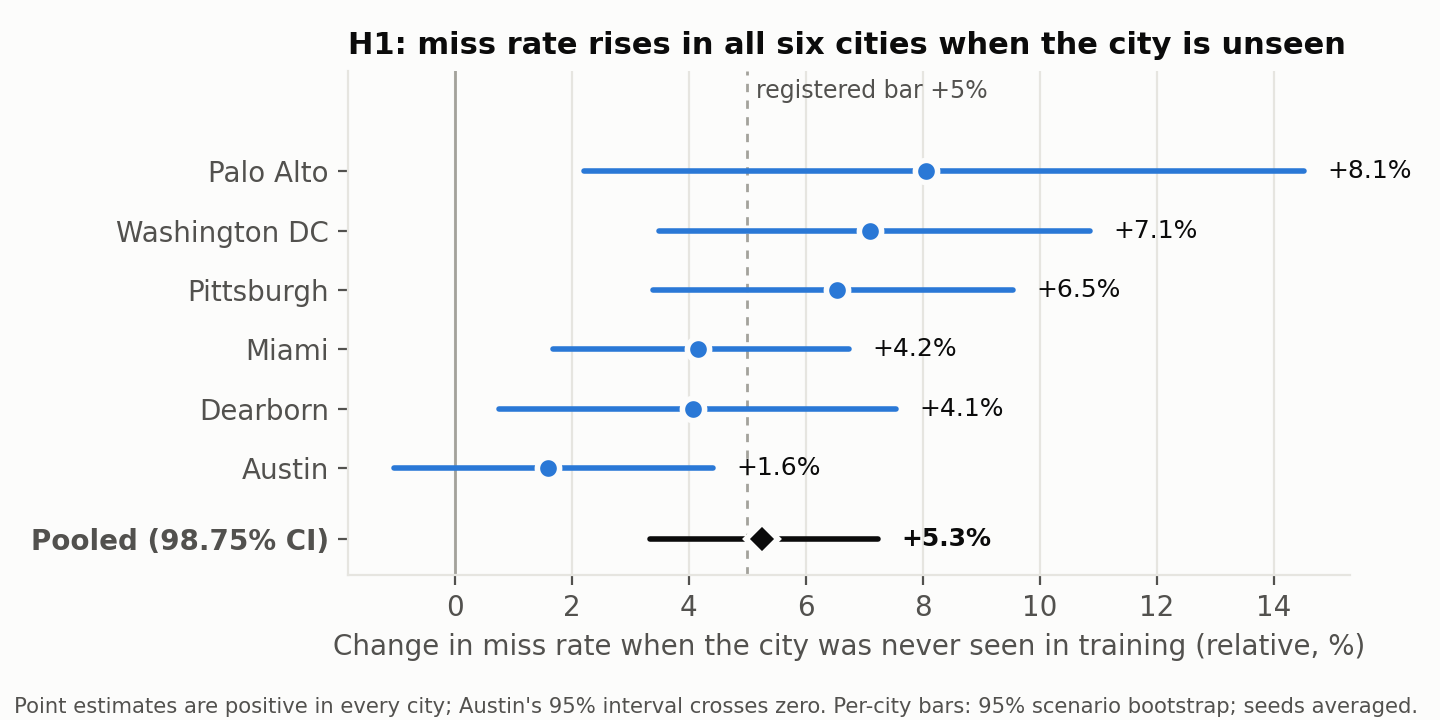
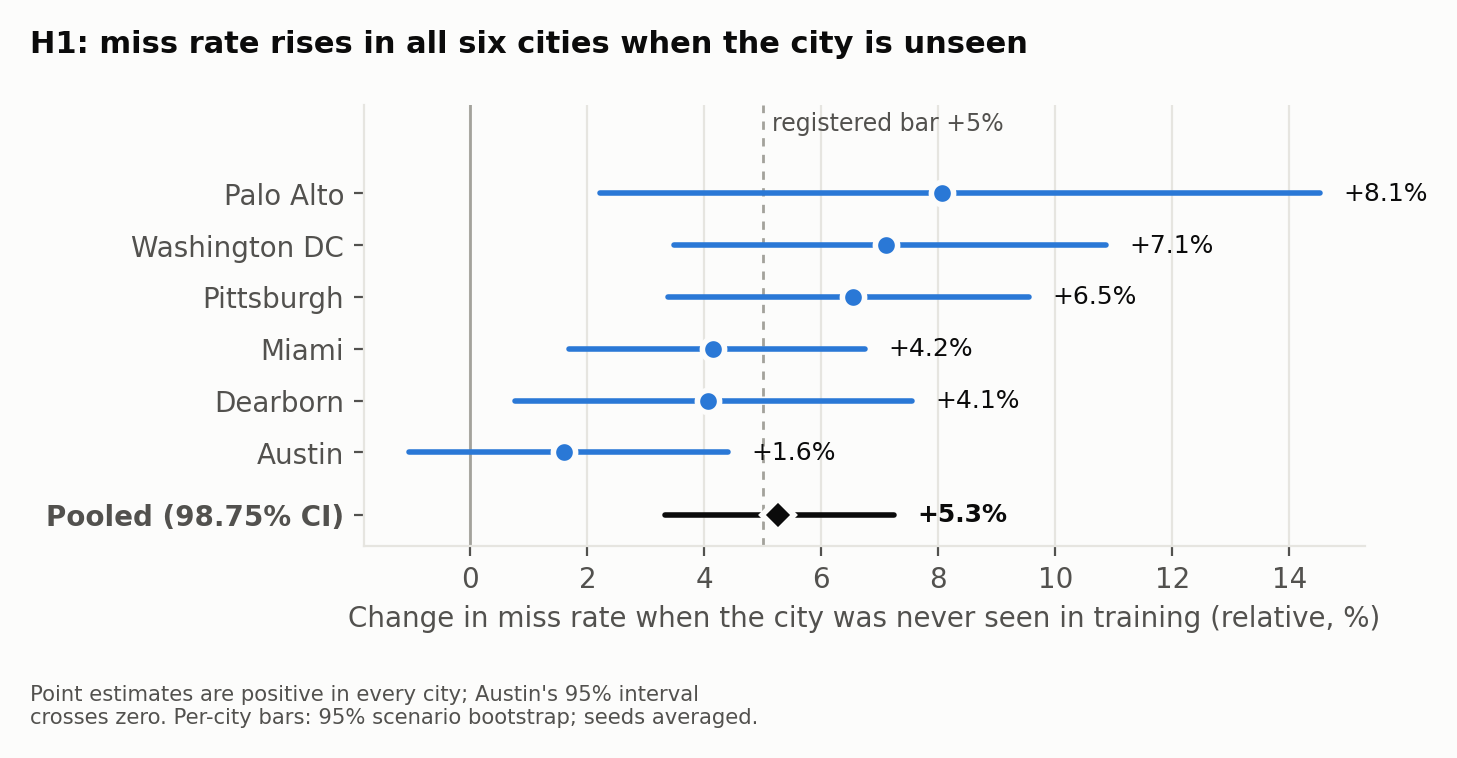
Figures: wrap and left-align titles and footnotes so nothing clips

diff --git a/scripts/plot_results.py b/scripts/plot_results.py
@@ -7,6 +7,7 @@ from __future__ import annotations
 
 import argparse
 import os
+import textwrap
 
 import matplotlib
 
@@ -36,6 +37,40 @@ plt.rcParams.update({
 
 def seed_mean(df: pd.DataFrame, m: str) -> np.ndarray:
     return df[[f"s{i}_{m}" for i in range(3)]].to_numpy(float).mean(1)
+
+
+def _fit(fig, artist, text: str) -> None:
+    """Set text on artist, wrapped so it fits the figure width (measured, not estimated) with balanced line lengths."""
+    renderer = fig.canvas.get_renderer()
+    limit = fig.bbox.width * 0.98 - artist.get_window_extent(renderer).x0
+
+    def fits(width: int) -> bool:
+        artist.set_text(textwrap.fill(text, width, break_on_hyphens=False))
+        return artist.get_window_extent(renderer).width <= limit
+
+    widest = next((w for w in range(len(text), 19, -1) if fits(w)), 20)
+    lines = len(textwrap.wrap(text, widest, break_on_hyphens=False))
+    best = widest  # narrowest width with the same line count, so the last line is not an orphan
+    while best > 20 and len(textwrap.wrap(text, best - 1, break_on_hyphens=False)) == lines:
+        best -= 1
+    fits(best)
+
+
+def _finish(fig, path: str, title: str | None = None, note: str | None = None, dpi: int = 200, note_size: float = 7.6) -> None:
+    """Left-aligned figure title and footnote, both wrapped to the figure width, with room reserved for them.
+
+    Saving with bbox_inches="tight" is a backstop so no title, label, legend or annotation is ever cut at the edge.
+    """
+    bottom = 0.0
+    if note:
+        t = fig.text(0.01, 0.01, "", color=INK2, fontsize=note_size, va="bottom")
+        _fit(fig, t, note)
+        bottom = (t.get_text().count("\n") + 1) * note_size * 1.3 / 72 / fig.get_figheight() + 0.025
+    if title:  # tight_layout reserves room for the suptitle itself
+        _fit(fig, fig.suptitle("", x=0.01, ha="left", fontsize=11, fontweight="bold"), title)
+    fig.tight_layout(rect=(0, bottom, 1, 1))
+    fig.savefig(path, dpi=dpi, bbox_inches="tight", pad_inches=0.15)
+    plt.close(fig)
 
 
 def fig_h1(evals: str, out: str) -> None:
@@ -72,13 +107,11 @@ def fig_h1(evals: str, out: str) -> None:
     ax.get_yticklabels()[-1].set_fontweight("bold")
     ax.set_ylim(-1.8, len(rows) + 0.7)
     ax.set_xlabel("Change in miss rate when the city was never seen in training (relative, %)")
-    ax.set_title("H1: miss rate rises in all six cities when the city is unseen", loc="left")
     ax.grid(axis="x")
     ax.set_axisbelow(True)
-    fig.text(0.01, 0.01, "Point estimates are positive in every city; Austin's 95% interval crosses zero. Per-city bars: 95% scenario bootstrap; seeds averaged.", color=INK2, fontsize=7.6)
-    fig.tight_layout(rect=(0, 0.04, 1, 1))
-    fig.savefig(f"{out}/h1_per_city.png", dpi=200)
-    plt.close(fig)
+    _finish(fig, f"{out}/h1_per_city.png", title="H1: miss rate rises in all six cities when the city is unseen",
+            note="Point estimates are positive in every city; Austin's 95% interval crosses zero. "
+                 "Per-city bars: 95% scenario bootstrap; seeds averaged.")  # fmt: skip
 
 
 def fig_h2(evals: str, out: str) -> None:
@@ -108,13 +141,10 @@ def fig_h2(evals: str, out: str) -> None:
     ax.invert_xaxis()
     ax.set_xlabel("Share of scenarios the predictor keeps (%)")
     ax.set_ylabel("Miss rate of kept scenarios (%)")
-    ax.set_title("H2: disagreement catches a third of what an error-ranked oracle removes", loc="left")
     ax.grid(axis="y")
     ax.set_axisbelow(True)
-    fig.text(0.01, 0.01, "Held-out-city validation scenarios, mean of the six leave-one-city-out folds.", color=INK2, fontsize=8)
-    fig.tight_layout(rect=(0, 0.04, 1, 1))
-    fig.savefig(f"{out}/h2_risk_coverage.png", dpi=200)
-    plt.close(fig)
+    _finish(fig, f"{out}/h2_risk_coverage.png", title="H2: disagreement catches a third of what an error-ranked oracle removes",
+            note="Held-out-city validation scenarios, mean of the six leave-one-city-out folds.", note_size=8)  # fmt: skip
 
 
 def fig_closed_loop(evals: str, out: str) -> None:
@@ -138,17 +168,14 @@ def fig_closed_loop(evals: str, out: str) -> None:
         ax.text(c + h + 0.12, yi, f"{rate(arm, 'failure'):.1f}%", va="center", fontsize=9, fontweight="bold")
     ax.set_yticks(range(len(arms)), [a[1] for a in arms[::-1]])
     ax.set_xlabel("Share of drives with a planning failure (%)")
-    ax.set_title("Closed loop: learned forecasts crash less, phantom-brake more", loc="left")
     ax.bar(0, 0, color=ORANGE, label="At-fault collision")
     ax.bar(0, 0, color=BLUE, label="Unnecessary hard brake, no collision")
     ax.legend(loc="upper right", fontsize=8.5)
     ax.grid(axis="x")
     ax.set_axisbelow(True)
     ax.set_xlim(0, 8.2)
-    fig.text(0.01, 0.01, "24,988 validation drives; human drive replayed: 0.4% (collision-checker calibration).", color=INK2, fontsize=8)
-    fig.tight_layout(rect=(0, 0.04, 1, 1))
-    fig.savefig(f"{out}/closed_loop_failures.png", dpi=200)
-    plt.close(fig)
+    _finish(fig, f"{out}/closed_loop_failures.png", title="Closed loop: learned forecasts crash less, phantom-brake more",
+            note="24,988 validation drives; human drive replayed: 0.4% (collision-checker calibration).", note_size=8)  # fmt: skip
 
 
 def fig_examples(evals: str, runs: str, root: str, out: str, city: str = "palo-alto") -> None:
@@ -166,7 +193,7 @@ def fig_examples(evals: str, runs: str, root: str, out: str, city: str = "palo-a
     for key, path in (("seen", f"{runs}/ALL/seed0/model.pt"), ("unseen", f"{runs}/LOCO-{city}/seed0/model.pt")):
         model, _ = load_model(path, device)
         preds[key] = run_model(model, val, idx, device)
-    fig, axes = plt.subplots(2, 2, figsize=(9.0, 9.2))
+    fig, axes = plt.subplots(2, 2, figsize=(9.0, 8.6))
     for r, vi in enumerate([typical, worst]):
         j = int(np.where(idx == vi)[0][0])
         hist = np.asarray(val.arrays["agent_hist"][vi])
@@ -204,17 +231,14 @@ def fig_examples(evals: str, runs: str, root: str, out: str, city: str = "palo-a
             ax.set_yticks([])
             for sp in ax.spines.values():
                 sp.set_visible(False)
-            ax.set_title(f"{title}: best-of-6 endpoint error {fde:.1f} m", loc="left", fontsize=9.5, color=col)
+            ax.set_title(f"{title}\nbest-of-6 endpoint error {fde:.1f} m", loc="left", fontsize=9.5, color=col)
             if cidx == 0:
                 ax.text(-0.02, 0.5, "Typical scenario" if r == 0 else "Largest gap", transform=ax.transAxes, rotation=90,
                         ha="right", va="center", fontsize=10, fontweight="bold", color=INK)
-    fig.text(0.02, 0.012, "Black: focal vehicle history (solid) and true future (dashed, star). Colour: the 6 predicted futures, thicker = more\n"
-             "probable. Grey: other agents and lanes. Seed-0 models, Palo Alto validation vehicles. Top: the median-error scenario for\n"
-             "the trained-with model. Bottom: selected as the scenario where the unseen-city model does worst relative to the other.",
-             color=INK2, fontsize=7.8)  # fmt: skip
-    fig.tight_layout(rect=(0.02, 0.07, 1, 1))
-    fig.savefig(f"{out}/example_scenarios.png", dpi=170)
-    plt.close(fig)
+    _finish(fig, f"{out}/example_scenarios.png", dpi=170, note_size=7.8,
+            note="Black: focal vehicle history (solid) and true future (dashed, star). Colour: the 6 predicted futures, thicker = more "
+                 "probable. Grey: other agents and lanes. Seed-0 models, Palo Alto validation vehicles. Top: the median-error scenario for "
+                 "the trained-with model. Bottom: selected as the scenario where the unseen-city model does worst relative to the other.")  # fmt: skip
 
 
 def fig_stage3(stage3: str, out: str) -> None:
@@ -238,13 +262,10 @@ def fig_stage3(stage3: str, out: str) -> None:
         ax.set_xlim(0, max(r[key].values()) * 100 * 1.25)
         ax.set_xlabel("Share of validation drives (%)")
     axes[0].set_yticks(range(len(arms)), [a[1] for a in arms[::-1]])
-    fig.suptitle("Stage 3: CV for stopped agents cuts phantom brakes 38%, collisions within the registered margin",
-                 x=0.01, ha="left", fontsize=11, fontweight="bold")
-    fig.text(0.01, 0.01, "Closed loop v2 (no future speed cap, contact-based fault), 24,988 validation drives, model arms averaged "
-             "over 3 seeds. Sham substituted 43% of PATCH's dose (see audit).", color=INK2, fontsize=7.6)
-    fig.tight_layout(rect=(0, 0.05, 1, 0.94))
-    fig.savefig(f"{out}/stage3_closed_loop.png", dpi=200)
-    plt.close(fig)
+    _finish(fig, f"{out}/stage3_closed_loop.png",
+            title="Stage 3: CV for stopped agents cuts phantom brakes 38%, collisions within the registered margin",
+            note="Closed loop v2 (no future speed cap, contact-based fault), 24,988 validation drives, model arms averaged "
+                 "over 3 seeds. Sham substituted 43% of PATCH's dose (see audit).")  # fmt: skip
 
 
 def fig_stage4(closedloop: str, out: str) -> None:
@@ -276,13 +297,10 @@ def fig_stage4(closedloop: str, out: str) -> None:
         ax.set_xlim(0, max(values.values()) * 1.25)
         ax.set_xlabel("Share of drives (%)")
     axes[0].set_yticks(range(len(arms)), [a[1] for a in arms[::-1]])
-    fig.suptitle("Stage 4 (8,140 fresh scenes): the stopped-agent fix replicates; a dose-matched sham shows no detectable effect",
-                 x=0.01, ha="left", fontsize=11, fontweight="bold")
-    fig.text(0.01, 0.01, "Scenes no compared model trained on; model arms averaged over 3 seeds. TRIM fell back to CV for about 67% "
-             "of stopped agents (no stationary mode).", color=INK2, fontsize=7.6)
-    fig.tight_layout(rect=(0, 0.05, 1, 0.94))
-    fig.savefig(f"{out}/stage4_replication.png", dpi=200)
-    plt.close(fig)
+    _finish(fig, f"{out}/stage4_replication.png",
+            title="Stage 4 (8,140 fresh scenes): the stopped-agent fix replicates; a dose-matched sham shows no detectable effect",
+            note="Scenes no compared model trained on; model arms averaged over 3 seeds. TRIM fell back to CV for about 67% "
+                 "of stopped agents (no stationary mode).")  # fmt: skip
 
 
 def fig_sensitivity(sweep: str, out: str) -> None:
@@ -316,13 +334,12 @@ def fig_sensitivity(sweep: str, out: str) -> None:
             if row == 1:
                 ax.set_xlabel("Planner risk weight (log; 100 = registered)")
     axes[0, 1].set_xlim(0.2, 600)
-    fig.suptitle("Exploratory: PATCH cuts phantom braking by about 30 to 50% wherever the planner weighs risk (weight >= 3)",
-                 x=0.01, ha="left", fontsize=11, fontweight="bold")
-    fig.text(0.01, 0.01, "3,000 replication-pool scenes, model seed 0, rates pooled over scenes, no intervals; brake threshold -4 m/s^2. Below weight 3 the "
-             "planner barely weighs risk and collides in 3 to 30% of drives.", color=INK2, fontsize=7.6)
-    fig.tight_layout(rect=(0, 0.04, 1, 0.95))
-    fig.savefig(f"{out}/sensitivity_sweep.png", dpi=200)
-    plt.close(fig)
+    # Tolerates a future multi-seed table: a "seed" column is pooled by the groupby above and named in the note.
+    seeds = f"{d.seed.nunique()} model seeds pooled" if "seed" in d and d.seed.nunique() > 1 else "model seed 0"
+    _finish(fig, f"{out}/sensitivity_sweep.png",
+            title="Exploratory: PATCH cuts phantom braking by about 30 to 50% wherever the planner weighs risk (weight >= 3)",
+            note=f"3,000 replication-pool scenes, {seeds}, rates pooled over scenes, no intervals; brake threshold -4 m/s^2. "
+                 "Below weight 3 the planner barely weighs risk and collides in 3 to 30% of drives.")  # fmt: skip
 
 
 def main() -> None:
